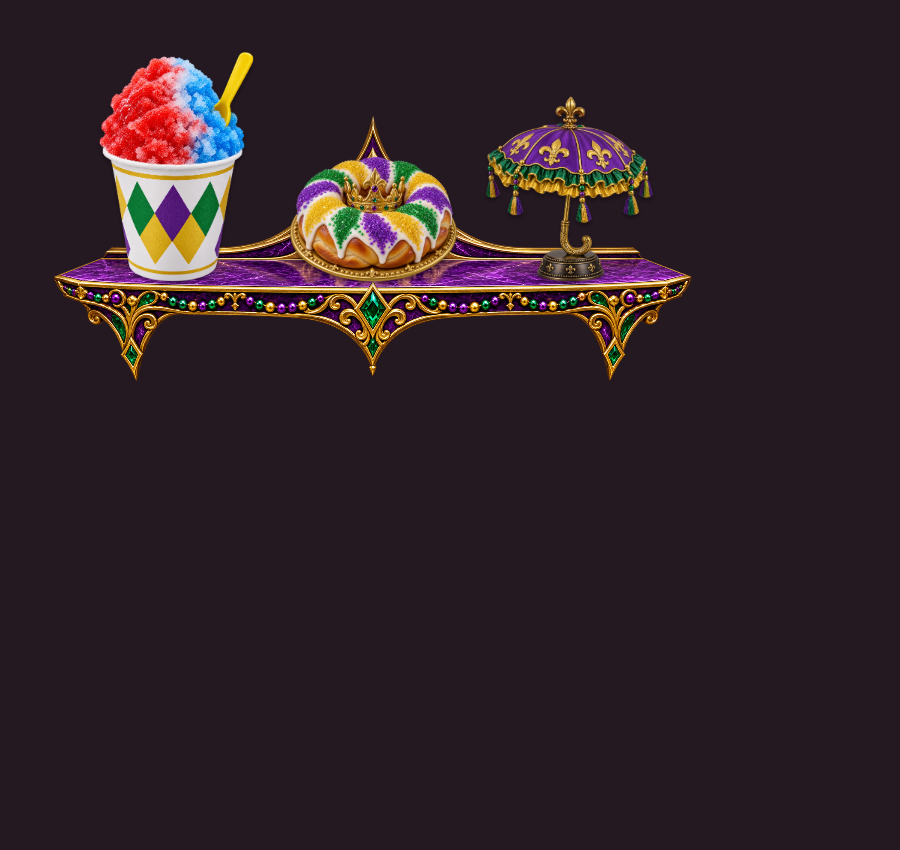
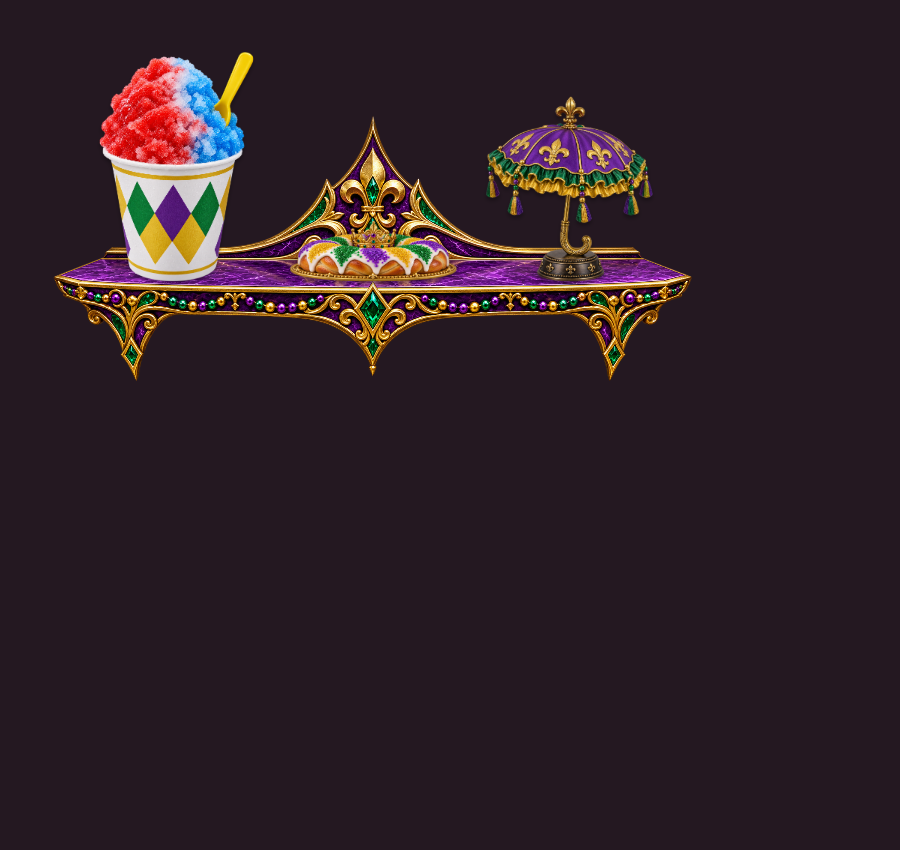
Fix king cake perspective to sit flat on shelves

Changed region(s): [[0.3111, 0.1835, 0.5289, 0.3365]]

diff --git a/work/verify-new-orleans-shelf.js b/work/verify-new-orleans-shelf.js
@@ -5,7 +5,7 @@ const {chromium}=require('playwright'),sharp=require('sharp'),shelf=require('../
  for(const id of ids){
   assert(shelf.items.some(i=>i.id===id&&i.category==='New Orleans'));
   assert(shelf.valid({enabled:true,theme:'crimson',slots:[id,'horse','crystal']}));
-  const {data}=await sharp('assets/shelf-'+id+'.png').ensureAlpha().raw().toBuffer({resolveWithObject:true});assert.equal(data[3],0);
+  const {data}=await sharp('assets/shelf-'+id+(id==='nola-king-cake'?'-flat':'')+'.png').ensureAlpha().raw().toBuffer({resolveWithObject:true});assert.equal(data[3],0);
  }
  const browser=await chromium.launch({executablePath:'C:/Program Files (x86)/Google/Chrome/Application/chrome.exe',headless:true});
  try{
@@ -19,7 +19,7 @@ const {chromium}=require('playwright'),sharp=require('sharp'),shelf=require('../
   await page.locator('#shelfCategory').selectOption('New Orleans');
   for(const id of ids){
    await page.locator('#shelfSearch').fill(shelf.items.find(i=>i.id===id).name);
-   const card=page.locator('[data-shelf-item="'+id+'"]');assert.equal(await card.locator('image').getAttribute('href'),'assets/shelf-'+id+'.png');await card.click();
+   const card=page.locator('[data-shelf-item="'+id+'"]');assert.equal(await card.locator('image').getAttribute('href'),'assets/shelf-'+id+(id==='nola-king-cake'?'-flat':'')+'.png');await card.click();
   }
   console.log('Four New Orleans items: validation, alpha, shelf alignment, category search and selection passed.');
  }finally{await browser.close();}

diff --git a/collectible-shelf.js b/collectible-shelf.js
@@ -103,7 +103,7 @@
   const name = id => items.find(item => item.id === id)?.name || 'Empty spot';
   const standalone = {
     'nola-snowball': {source:'assets/shelf-nola-snowball.png',width:1254,height:1254,bounds:[240,17,821,1222]},
-    'nola-king-cake': {source:'assets/shelf-nola-king-cake.png',width:1254,height:1254,bounds:[14,169,1227,920]},
+    'nola-king-cake': {source:'assets/shelf-nola-king-cake-flat.png',width:1897,height:829,bounds:[37,93,1823,661]},
     'nola-second-line': {source:'assets/shelf-nola-second-line.png',width:1254,height:1254,bounds:[77,9,1113,1235]},
     'nola-pelican': {source:'assets/shelf-nola-pelican.png',width:1254,height:1254,bounds:[229,20,840,1218]},
     'enchanted-rose': {source:'assets/shelf-enchanted-rose.png',width:1254,height:1254,bounds:[265,18,723,1165]},

diff --git a/index.html b/index.html
@@ -24,7 +24,7 @@
 
   <script src="launchpad-scenes.js?v=20260926-christian-v41"></script>
   <script src="profile-banners.js?v=20260922-v5"></script>
-<script src="collectible-shelf.js?v=20260926-new-orleans-v34"></script>
+<script src="collectible-shelf.js?v=20260926-flat-king-cake-v35"></script>
   <script src="app.js?v=20260926-briefing-controls-v73"></script>
   <script src="colt-assistant.js?v=20260905-lazy-artwork-v2"></script>
   <script src="colt-radio.js?v=20260926-youradio-v25"></script>

diff --git a/work/king-cake-flat-art.md b/work/king-cake-flat-art.md
@@ -1,0 +1,7 @@
+# King cake perspective correction
+
+Built-in image-generation edit. Final asset: `assets/shelf-nola-king-cake-flat.png`. Original asset retained; saved shelf selections use the same item ID. PNG copied unchanged; alpha bounds measured for bottom-aligned shelf fitting.
+
+## Prompt
+
+Use case: precise-object-edit. Edit target: this king cake shelf collectible. Keep its purple green gold sugar, white icing, braided pastry, small central gold crown and thin gold serving plate. CHANGE CAMERA AND PROPORTIONS: low front view, only about 10 degrees above the horizontal tabletop, NOT top-down. Cake is a low wide ring of pastry, not a tall bundt cake. Gold plate rests flat, level and horizontal, seen as a very shallow ellipse, with its front edge making a long nearly straight horizontal contact baseline. Only a little of the cake top visible. The entire object should be about 2.3 times as wide as tall. It must look naturally seated on a shallow front-facing shelf. True transparent background, no shelf or table included, no external cast shadow, no writing. Whole object visible with safe margins. Detailed resin collectible rendering.
